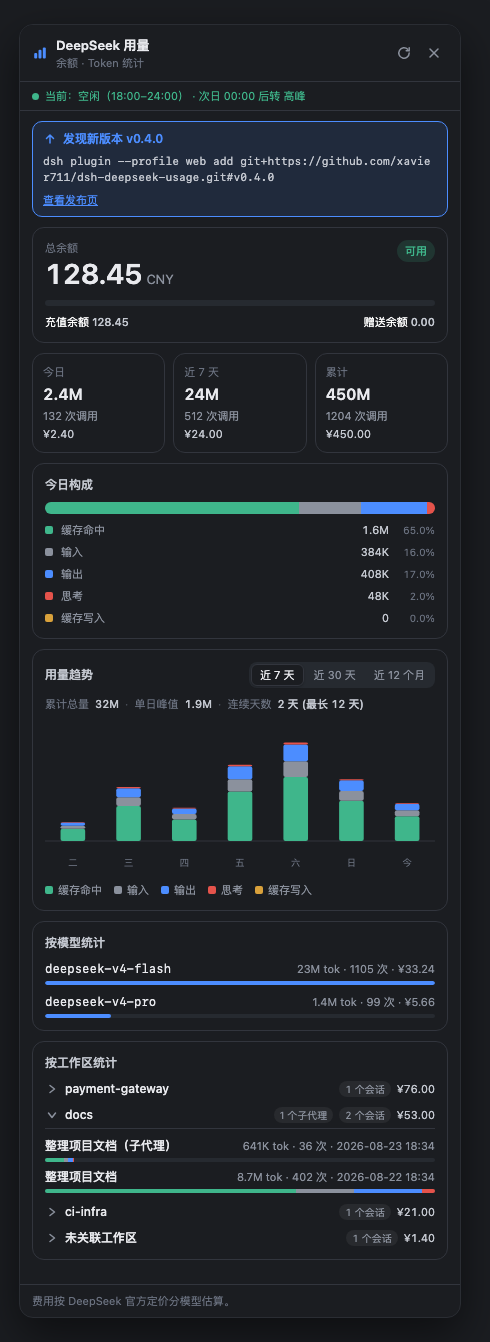
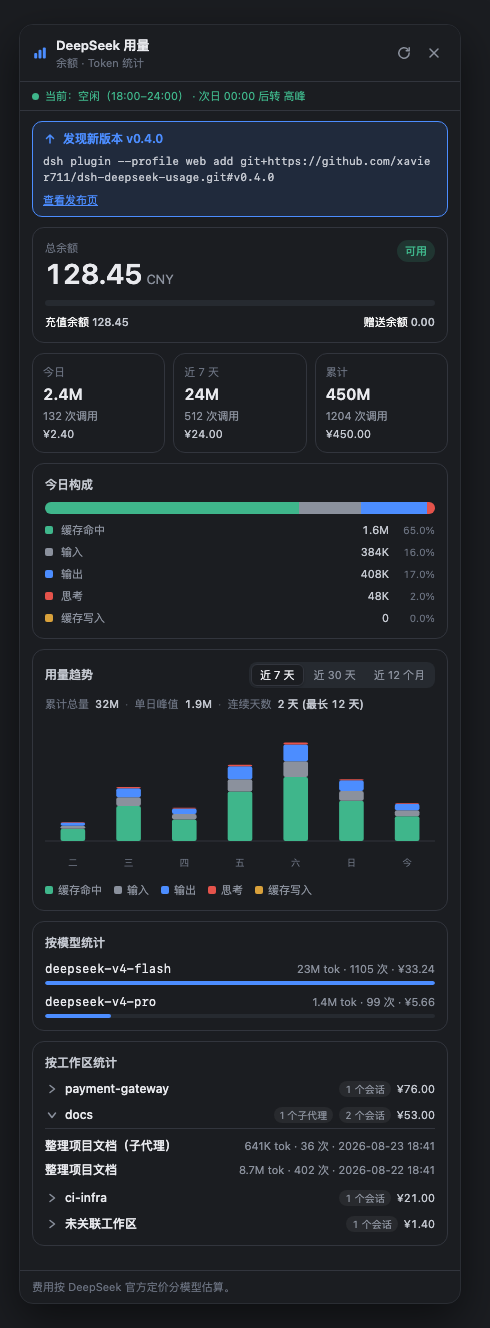
feat: 移除会话进度条，保留悬停明细
- 真实用量中缓存命中占 60-90%，token 构成堆叠条在视觉上塌成一条绿色，
  反而误导（条长与费用无关）；按用户确认删除会话条
- 会话行保留标题 + 文字 meta，悬停显示完整明细 tooltip（各类 token + 费用）
- 模型费用条保留（相对最贵模型的费用对比，语义明确）
- 截图重新生成

diff --git a/screenshots/render-test.html b/screenshots/render-test.html
@@ -186,7 +186,7 @@ window.__ZH = {
   const SAMPLE = {
  "/dsh-usage/balance": {
   "ok": true,
-  "fetchedAt": 1787567686492,
+  "fetchedAt": 1787568085184,
   "isAvailable": true,
   "currency": "CNY",
   "totalBalance": "128.45",
@@ -195,13 +195,13 @@ window.__ZH = {
  },
  "/dsh-usage/local": {
   "ok": true,
-  "fetchedAt": 1787567686492,
+  "fetchedAt": 1787568085184,
   "sessionCount": 3,
   "errorSessions": 0,
   "pricing": {
    "currency": "CNY",
    "note": "official",
-   "newPricingAt": 1787567686492,
+   "newPricingAt": 1787568085184,
    "weekendOffPeakAt": 1787414400000,
    "peakHours": [
     [
@@ -4000,8 +4000,8 @@ window.__ZH = {
     "title": "优化支付网关性能",
     "workspace": "/Users/alice/dev/payment-gateway",
     "subagent": false,
-    "createdAt": 1787481286492,
-    "lastActiveAt": 1787564086492,
+    "createdAt": 1787481685184,
+    "lastActiveAt": 1787564485184,
     "calls": 618,
     "inputTokens": 1900000,
     "outputTokens": 2100000,
@@ -4016,8 +4016,8 @@ window.__ZH = {
     "title": "整理项目文档",
     "workspace": "/Users/alice/docs",
     "subagent": false,
-    "createdAt": 1787394886492,
-    "lastActiveAt": 1787394886492,
+    "createdAt": 1787395285184,
+    "lastActiveAt": 1787395285184,
     "calls": 402,
     "inputTokens": 1300000,
     "outputTokens": 1500000,
@@ -4032,8 +4032,8 @@ window.__ZH = {
     "title": "修复 CI 流水线",
     "workspace": "/Users/alice/ci-infra",
     "subagent": false,
-    "createdAt": 1787308486492,
-    "lastActiveAt": 1787308486492,
+    "createdAt": 1787308885184,
+    "lastActiveAt": 1787308885184,
     "calls": 184,
     "inputTokens": 500000,
     "outputTokens": 600000,
@@ -4048,8 +4048,8 @@ window.__ZH = {
     "title": "整理项目文档（子代理）",
     "workspace": "/Users/alice/docs",
     "subagent": true,
-    "createdAt": 1787394886492,
-    "lastActiveAt": 1787481286492,
+    "createdAt": 1787395285184,
+    "lastActiveAt": 1787481685184,
     "calls": 36,
     "inputTokens": 90000,
     "outputTokens": 110000,
@@ -4064,8 +4064,8 @@ window.__ZH = {
     "title": "临时想法速记",
     "workspace": null,
     "subagent": false,
-    "createdAt": 1787222086492,
-    "lastActiveAt": 1787222086492,
+    "createdAt": 1787222485184,
+    "lastActiveAt": 1787222485184,
     "calls": 27,
     "inputTokens": 60000,
     "outputTokens": 80000,
@@ -4119,8 +4119,8 @@ window.__ZH = {
       "id": "s1",
       "title": "优化支付网关性能",
       "subagent": false,
-      "createdAt": 1787481286492,
-      "lastActiveAt": 1787564086492,
+      "createdAt": 1787481685184,
+      "lastActiveAt": 1787564485184,
       "calls": 618,
       "inputTokens": 1900000,
       "outputTokens": 2100000,
@@ -4173,8 +4173,8 @@ window.__ZH = {
       "id": "s2",
       "title": "整理项目文档",
       "subagent": false,
-      "createdAt": 1787394886492,
-      "lastActiveAt": 1787394886492,
+      "createdAt": 1787395285184,
+      "lastActiveAt": 1787395285184,
       "calls": 402,
       "inputTokens": 1300000,
       "outputTokens": 1500000,
@@ -4187,8 +4187,8 @@ window.__ZH = {
       "id": "s4",
       "title": "整理项目文档（子代理）",
       "subagent": true,
-      "createdAt": 1787394886492,
-      "lastActiveAt": 1787481286492,
+      "createdAt": 1787395285184,
+      "lastActiveAt": 1787481685184,
       "calls": 36,
       "inputTokens": 90000,
       "outputTokens": 110000,
@@ -4241,8 +4241,8 @@ window.__ZH = {
       "id": "s3",
       "title": "修复 CI 流水线",
       "subagent": false,
-      "createdAt": 1787308486492,
-      "lastActiveAt": 1787308486492,
+      "createdAt": 1787308885184,
+      "lastActiveAt": 1787308885184,
       "calls": 184,
       "inputTokens": 500000,
       "outputTokens": 600000,
@@ -4295,8 +4295,8 @@ window.__ZH = {
       "id": "s5",
       "title": "临时想法速记",
       "subagent": false,
-      "createdAt": 1787222086492,
-      "lastActiveAt": 1787222086492,
+      "createdAt": 1787222485184,
+      "lastActiveAt": 1787222485184,
       "calls": 27,
       "inputTokens": 60000,
       "outputTokens": 80000,
@@ -4311,7 +4311,7 @@ window.__ZH = {
  },
  "/dsh-usage/version": {
   "ok": true,
-  "checkedAt": 1787567686492,
+  "checkedAt": 1787568085184,
   "installed": "0.1.0",
   "latest": "0.4.0",
   "updateAvailable": true,
@@ -4319,7 +4319,7 @@ window.__ZH = {
  },
  "/dsh-usage/period": {
   "ok": true,
-  "now": 1787567686491,
+  "now": 1787568085184,
   "period": "offPeak",
   "range": [
    1080,

diff --git a/lib/client.js b/lib/client.js
@@ -127,8 +127,6 @@ window.__ModuleLoader__.load({
 .du-sessionHead{flex:none;align-items:center;gap:8px;min-width:0;display:flex}
 .du-sessionTitle{min-width:0;color:var(--dsw-alias-label-primary);text-overflow:ellipsis;white-space:nowrap;flex:1;font-size:12px;font-weight:500;line-height:18px;overflow:hidden}
 .du-sessionMeta{color:var(--dsw-alias-label-tertiary);flex:none;font-size:11px;line-height:18px}
-.du-sessionBar{background:var(--dsw-alias-fill-l2);border-radius:999px;flex:none;height:4px;display:flex;overflow:hidden}
-.du-sessionBar>span{height:100%;display:block}
 .du-wsItem{flex:none;flex-direction:column;display:flex}
 .du-wsHeader{box-sizing:border-box;flex:none;align-items:center;gap:6px;min-width:0;width:100%;color:var(--dsw-alias-label-primary);cursor:pointer;background:0 0;border:none;padding:0;font-family:inherit;font-size:12px;line-height:18px;text-align:left;display:flex}
 .du-wsHeader:hover .du-wsName{color:var(--dsw-alias-state-business-primary)}
@@ -275,7 +273,6 @@ window.__ModuleLoader__.load({
       sessionHead: "du-sessionHead",
       sessionTitle: "du-sessionTitle",
       sessionMeta: "du-sessionMeta",
-      sessionBar: "du-sessionBar",
       loading: "du-loading",
       skel: "du-skel",
       skelCard: "du-skelCard",
@@ -679,22 +676,14 @@ window.__ModuleLoader__.load({
     }
 
     /**
-     * Per-session rows, most recently active first. The thin bar is a token
-     * COMPOSITION stack (segment colors match the trend chart), scaled
-     * against the largest session in the same list; hovering a row shows the
-     * full breakdown (tokens by category + estimated cost).
+     * Per-session rows, most recently active first. Each row is plain
+     * title + meta text; hovering a row shows the full breakdown (tokens by
+     * category + estimated cost). No bar: raw token composition is dominated
+     * by cheap cache hits in real usage, so a bar would mislead.
      */
     function SessionList({ sessions, t }) {
       const [tip, show, hide] = useChartTip();
       const sorted = [...sessions].sort((a, b) => (b.lastActiveAt ?? 0) - (a.lastActiveAt ?? 0));
-      const max = Math.max(1, ...sorted.map((s) => bucketTokens(s)));
-      const segments = [
-        ["cacheReadTokens", "var(--du-cacheRead)"],
-        ["inputTokens", "var(--du-input)"],
-        ["outputTokens", "var(--du-output)"],
-        ["reasoningTokens", "var(--du-reasoning)"],
-        ["cacheWriteTokens", "var(--du-cacheWrite)"]
-      ];
       return react.createElement("ul", { className: styles.sessionList },
         sorted.map((session) => {
           const tokens = bucketTokens(session);
@@ -711,13 +700,6 @@ window.__ModuleLoader__.load({
             react.createElement("div", { className: styles.sessionHead },
               react.createElement("span", { className: styles.sessionTitle, title: session.title || session.id }, session.title || session.id),
               react.createElement("span", { className: styles.sessionMeta }, t("local.sessionMeta", { tokens: fmtCompact(tokens), calls: session.calls ?? 0, date: fmtDate(session.lastActiveAt ?? session.createdAt) }))
-            ),
-            react.createElement("div", { className: styles.sessionBar },
-              segments.map(([field, color]) => {
-                const width = ((session[field] ?? 0) / max) * 100;
-                if (width <= 0) return null;
-                return react.createElement("span", { key: field, style: { width: `${width}%`, background: color } });
-              })
             )
           );
         }),
